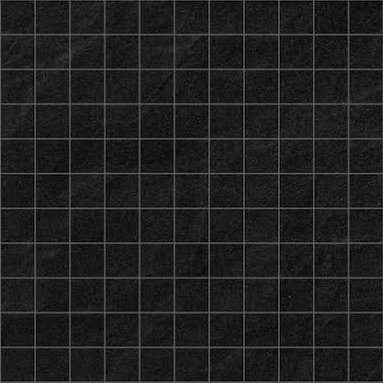
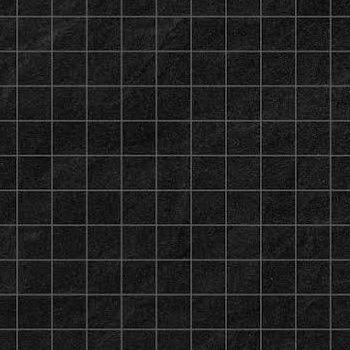
added asset manager and grid

Changed region(s): [[0.0, 0.0, 1.0, 1.0]]

diff --git a/nacht.html b/nacht.html
@@ -7,11 +7,15 @@
    
     <a-scene>
 
-      
+      <a-assets>
+        <img id="grid"  src="grid.jpg"/>
+        <img id="nacht1" src="Nacht_der_untoten1.webp"/>
+        <img id="nacht2" src="Nacht_der_untoten2.webp"/>
+      </a-assets>
 
-      <a-plane opacity="0" src="Nacht_der_untoten1.webp" position="0 -0.1 -8" rotation="-90 90 0" width="64" height="36"></a-plane>
-    <a-plane opacity="0" src="Nacht_der_untoten2.webp" position="0 4 -8" rotation="-90 90 0" width="64" height="36"></a-plane>
-    <a-plane src="grid.jpg" position="0 0 0" rotation="-90 0 0" width="100" height="100"></a-plane>
+      <a-plane opacity="0" src="#nacht1" position="0 -0.1 -8" rotation="-90 90 0" width="64" height="36"></a-plane>
+    <a-plane opacity="0" src="#nacht2" position="0 4 -8" rotation="-90 90 0" width="64" height="36"></a-plane>
+    <a-plane src="#grid" repeat="10 10" position="0 0 0" rotation="-90 0 0" width="100" height="100"></a-plane>
     <!--staircam--><a-entity camera position="-10 5.6 -20" look-controls wasd-controls ></a-entity>
     <!--SecondFloorCam--><a-entity camera position="-4 5.6 0" look-controls wasd-controls id="secondfloor"></a-entity>
       <!--FirstFloorCam--><a-entity camera position="-8 1.6 -10"  look-controls wasd-controls id="firstfloor"></a-entity>
